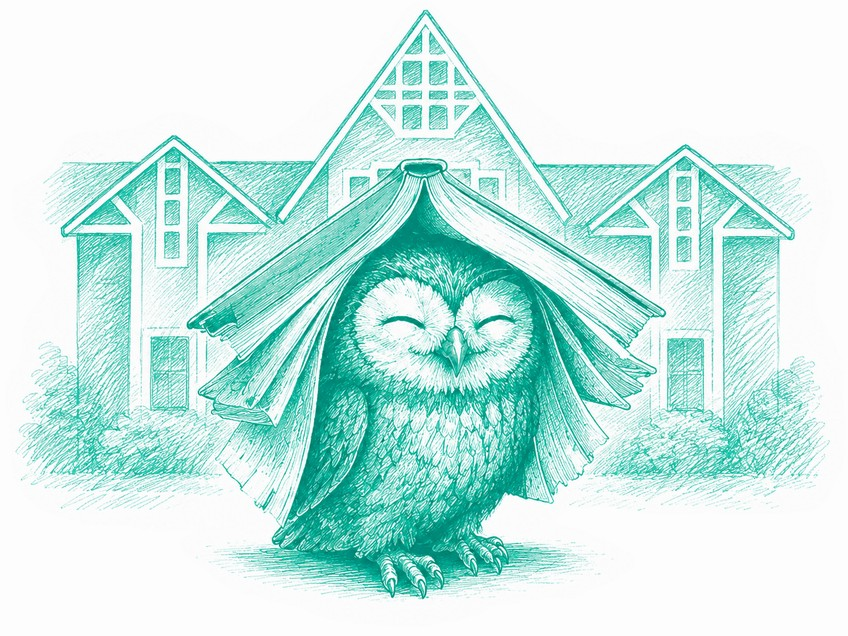
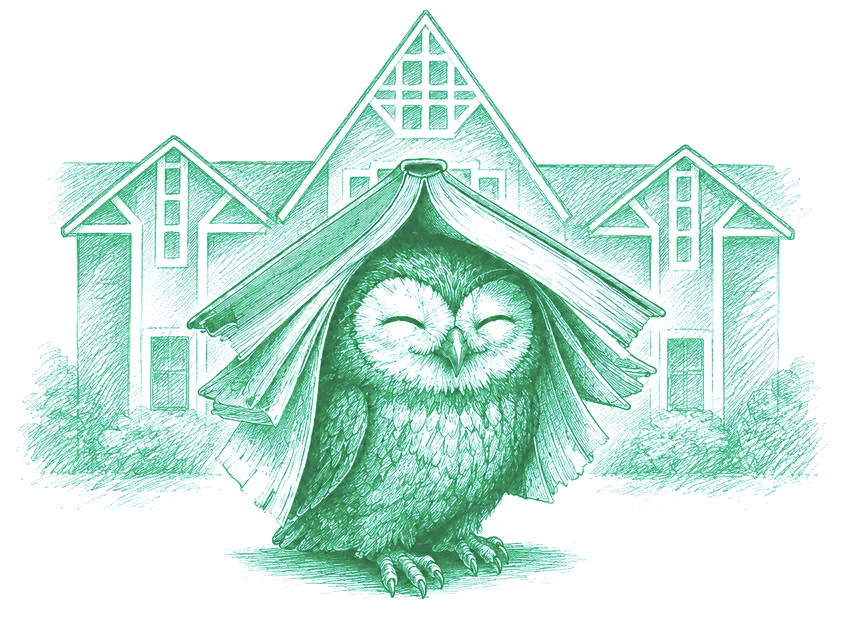
update

diff --git a/js/site.js b/js/site.js
@@ -254,6 +254,65 @@ photoTracks.forEach(track => {
 
 });
 
+document.querySelectorAll('.graduates-carousel').forEach(carousel => {
+  const track = carousel.querySelector('.graduates-carousel__track');
+  const prev = carousel.closest('.graduates')?.querySelector('.graduates-carousel__arrow--prev');
+  const next = carousel.closest('.graduates')?.querySelector('.graduates-carousel__arrow--next');
+  if (!track || !prev || !next) return;
+
+  let dragging = false;
+  let startX = 0;
+  let startScroll = 0;
+  let moved = false;
+
+  const slideStep = () => {
+    const slide = track.querySelector('.graduates-post');
+    if (!slide) return track.clientWidth * 0.85;
+    const gap = Number.parseFloat(getComputedStyle(track).columnGap || getComputedStyle(track).gap) || 0;
+    return slide.getBoundingClientRect().width + gap;
+  };
+
+  const moveGraduatesCarousel = direction => {
+    track.scrollBy({ left: direction * slideStep(), behavior: 'smooth' });
+  };
+
+  prev.addEventListener('click', () => moveGraduatesCarousel(-1));
+  next.addEventListener('click', () => moveGraduatesCarousel(1));
+
+  track.addEventListener('pointerdown', event => {
+    if (event.pointerType === 'touch') return;
+    dragging = true;
+    moved = false;
+    startX = event.clientX;
+    startScroll = track.scrollLeft;
+    track.classList.add('is-dragging');
+    track.setPointerCapture(event.pointerId);
+  });
+
+  track.addEventListener('pointermove', event => {
+    if (!dragging) return;
+    const distance = event.clientX - startX;
+    if (Math.abs(distance) > 6) moved = true;
+    track.scrollLeft = startScroll - distance;
+  });
+
+  const stopGraduatesDrag = event => {
+    if (!dragging) return;
+    dragging = false;
+    track.classList.remove('is-dragging');
+    if (track.hasPointerCapture(event.pointerId)) track.releasePointerCapture(event.pointerId);
+    setTimeout(() => { moved = false; }, 0);
+  };
+
+  track.addEventListener('pointerup', stopGraduatesDrag);
+  track.addEventListener('pointercancel', stopGraduatesDrag);
+  track.addEventListener('click', event => {
+    if (!moved) return;
+    event.preventDefault();
+    event.stopImmediatePropagation();
+  }, true);
+});
+
 const lightboxTriggers = document.querySelectorAll('[data-lightbox-src]');
 if (lightboxTriggers.length) {
   const lightbox = document.createElement('div');
@@ -355,9 +414,9 @@ faqItems.forEach(item => {
 document.documentElement.classList.add('motion-ready');
 
 const revealGroups = [
-  ['.section-head, .school-choice__head, .main-idea__inner, .story-split__copy, .faq__intro, .route__content', 'reveal-up'],
+  ['.section-head, .school-choice__head, .main-idea__inner, .story-split__copy, .faq__intro, .route__content, .graduates__head', 'reveal-up'],
   ['.choice-card, .photo-tile, .story-split__media, .owl-spot, .video-showcase__stage, .route__map', 'reveal-scale'],
-  ['.performance-item, .video-preview, .learn-card, .tuition-card, .faq__item', 'reveal-up'],
+  ['.performance-item, .video-preview, .learn-card, .tuition-card, .faq__item, .graduates-post', 'reveal-up'],
   ['.tuition__note, .footer__hero, .footer__social-inner', 'reveal-fade']
 ];
 

diff --git a/index.html b/index.html
@@ -25,6 +25,7 @@
   <script src="js/seo.js" defer></script>
   <script src="js/i18n.js" defer></script>
   <script src="js/site.js?v=20260710-1" defer></script>
+  <script async src="https://www.instagram.com/embed.js"></script>
 </head>
 <body>
   <span class="page-top-anchor" id="top" aria-hidden="true"></span>
@@ -302,6 +303,46 @@
           <a class="learn-card" href="evrika.html"><img src="images/garder.JPG" alt="" loading="lazy" decoding="async"><span></span><h3>НАШ ДИТЯЧИЙ САДОК</h3><p>Дбайливий початок освітнього шляху.</p></a>
           <a class="learn-card" href="teachers.html"><img src="images/teach.jpg" alt="" loading="lazy" decoding="async"><span></span><h3>НАШІ ВЧИТЕЛІ</h3><p>Педагоги, які допомагають дитині робити відкриття.</p></a>
           <a class="learn-card" href="#contacts"><img src="images/proj.JPG" alt="" loading="lazy" decoding="async"><span></span><h3>НАШІ ПРОЄКТИ</h3><p>Творчі, навчальні та дослідницькі формати.</p></a>
+        </div>
+      </div>
+    </section>
+
+    <section class="section graduates" id="graduates">
+      <div class="container">
+        <div class="section-head graduates__head">
+          <div>
+            <div class="eyebrow eyebrow--light">Відгуки випускників</div>
+            <h2>Випускники про нас</h2>
+          </div>
+          <div class="graduates__controls" aria-label="Керування каруселлю">
+            <button class="graduates-carousel__arrow graduates-carousel__arrow--prev" type="button" aria-label="Попередня публікація">←</button>
+            <button class="graduates-carousel__arrow graduates-carousel__arrow--next" type="button" aria-label="Наступна публікація">→</button>
+          </div>
+        </div>
+        <div class="graduates-carousel" aria-label="Публікації випускників з Instagram">
+          <div class="graduates-carousel__track">
+            <article class="graduates-post">
+              <blockquote class="instagram-media" data-instgrm-permalink="https://www.instagram.com/p/DYo2DHdNcOQ/" data-instgrm-version="14"><a href="https://www.instagram.com/p/DYo2DHdNcOQ/" target="_blank" rel="noopener noreferrer">Публікація випускника в Instagram</a></blockquote>
+            </article>
+            <article class="graduates-post">
+              <blockquote class="instagram-media" data-instgrm-permalink="https://www.instagram.com/p/DY0EYEMDSQz/" data-instgrm-version="14"><a href="https://www.instagram.com/p/DY0EYEMDSQz/" target="_blank" rel="noopener noreferrer">Публікація випускника в Instagram</a></blockquote>
+            </article>
+            <article class="graduates-post">
+              <blockquote class="instagram-media" data-instgrm-permalink="https://www.instagram.com/p/DYo1fYtNiG5/" data-instgrm-version="14"><a href="https://www.instagram.com/p/DYo1fYtNiG5/" target="_blank" rel="noopener noreferrer">Публікація випускника в Instagram</a></blockquote>
+            </article>
+            <article class="graduates-post">
+              <blockquote class="instagram-media" data-instgrm-permalink="https://www.instagram.com/p/DZXBIkIjXXC/" data-instgrm-version="14"><a href="https://www.instagram.com/p/DZXBIkIjXXC/" target="_blank" rel="noopener noreferrer">Публікація випускника в Instagram</a></blockquote>
+            </article>
+            <article class="graduates-post">
+              <blockquote class="instagram-media" data-instgrm-permalink="https://www.instagram.com/p/DY67we9DZ8z/" data-instgrm-version="14"><a href="https://www.instagram.com/p/DY67we9DZ8z/" target="_blank" rel="noopener noreferrer">Публікація випускника в Instagram</a></blockquote>
+            </article>
+            <article class="graduates-post">
+              <blockquote class="instagram-media" data-instgrm-permalink="https://www.instagram.com/p/DY65pc5jVjT/" data-instgrm-version="14"><a href="https://www.instagram.com/p/DY65pc5jVjT/" target="_blank" rel="noopener noreferrer">Публікація випускника в Instagram</a></blockquote>
+            </article>
+            <article class="graduates-post">
+              <blockquote class="instagram-media" data-instgrm-permalink="https://www.instagram.com/p/DZJ8uXdtket/" data-instgrm-version="14"><a href="https://www.instagram.com/p/DZJ8uXdtket/" target="_blank" rel="noopener noreferrer">Публікація випускника в Instagram</a></blockquote>
+            </article>
+          </div>
         </div>
       </div>
     </section>

diff --git a/css/site.css b/css/site.css
@@ -707,7 +707,7 @@ input:focus,textarea:focus{
 
 .anchor-offset{display:block;position:relative;top:-110px;visibility:hidden}
 .school-choice{position:relative;background:#fcfdfc}
-.school-choice__head{min-height:clamp(0px,30vw,424px);align-items: flex-end;margin:-60px 0 55px;padding:40px 44px;border-radius:0 0 30px 30px;background-image:url("../images/domik.png");background-repeat:no-repeat;background-position:center;background-size:cover}
+.school-choice__head{min-height:clamp(0px,30vw,424px);align-items: flex-end;margin:-60px 0 55px;padding:40px 44px;border-radius:0 0 30px 30px;background-image:url("../images/domik.jpg");background-repeat:no-repeat;background-position:center;background-size:cover}
 .school-choice__head .eyebrow{color:#071f1b}
 .choice-grid{display:grid;grid-template-columns:repeat(2,minmax(0,1fr));gap:18px;text-transform:uppercase}
 .choice-card{min-height:250px;display:grid;grid-template-columns:1fr 1fr;overflow:hidden;border:1px solid rgba(255,255,255,.92);border-radius:24px;background:linear-gradient(145deg,rgba(245,250,248,.82),rgba(255,255,255,.58));box-shadow:0 20px 55px rgba(13,75,67,.09),inset 0 1px 0 #fff}
@@ -827,6 +827,21 @@ input:focus,textarea:focus{
 .learn-card:nth-child(2){background:linear-gradient(145deg,rgba(255,244,221,.84),rgba(255,255,255,.44))}
 .learn-card:nth-child(3){background:linear-gradient(145deg,rgba(223,241,245,.86),rgba(255,255,255,.44))}
 .learn-card:hover{transform:translateY(-6px);box-shadow:0 24px 60px rgba(10,64,56,.13),inset 0 1px 0 #fff}
+.graduates{position:relative;overflow:hidden;color:#fff;background:radial-gradient(circle at 10% 12%,rgba(117,255,231,.22),transparent 28%),radial-gradient(circle at 92% 88%,rgba(178,255,241,.18),transparent 26%),#138c7d}
+.graduates__head{align-items:flex-end}
+.graduates__head h2{color:#fff}
+.graduates__controls{display:flex;gap:12px;flex:0 0 auto}
+.graduates-carousel{position:relative}
+.graduates-carousel__track{display:flex;gap:12px;overflow-x:auto;overscroll-behavior-inline:contain;scroll-snap-type:x mandatory;scrollbar-width:none;padding:0px 8px 6px 30px;cursor:grab;user-select:none;-webkit-user-select:none}
+.graduates-carousel__track::-webkit-scrollbar{display:none}
+.graduates-carousel__track.is-dragging{cursor:grabbing;scroll-snap-type:none}
+.graduates-carousel__track.is-dragging *{pointer-events:none}
+.graduates-post{flex:0 0 clamp(330px,34vw,470px);min-height:620px;display:flex;align-items:flex-start;justify-content:center;scroll-snap-align:start;padding:10px;border:1px solid rgba(255,255,255,.28);border-radius:24px;background:linear-gradient(145deg,rgba(255,255,255,.22),rgba(255,255,255,.1));-webkit-backdrop-filter:blur(14px);backdrop-filter:blur(14px)}
+.graduates-post .instagram-media{width:100%!important;min-width:0!important;max-width:100%!important;margin:0!important;background:#fff!important;border-radius:18px!important}
+.graduates-post iframe{max-width:100%!important;margin:0!important}
+.graduates-carousel__arrow{width:54px;height:54px;display:grid;place-items:center;border:1px solid rgba(255,255,255,.42);border-radius:50%;background:rgba(255,255,255,.18);color:#fff;box-shadow:0 14px 34px rgba(0,35,31,.18),inset 0 1px 0 rgba(255,255,255,.22);-webkit-backdrop-filter:blur(12px);backdrop-filter:blur(12px);cursor:pointer;font-size:22px;transition:transform .2s,background .2s}
+.graduates-carousel__arrow:hover{background:rgba(255,255,255,.28);transform:translateY(-2px)}
+.graduates-carousel__arrow:focus-visible{outline:3px solid rgba(255,255,255,.65);outline-offset:3px}
 .choice-card,.story-split__media,.route__map,.contact-form,.faq__item,.video-showcase__stage{
   transition:
     transform .35s cubic-bezier(.2,.75,.2,1),
@@ -885,6 +900,8 @@ input:focus,textarea:focus{
   .photo-tile--wide{flex-basis:86vw}
   .photo-carousel__arrow--prev{left:4px}
   .photo-carousel__arrow--next{right:4px}
+  .graduates__head{align-items:flex-start}
+  .graduates-post{flex-basis:min(420px,78vw)}
 }
 @media(max-width:600px){
   .choice-card{grid-template-columns:1fr;min-height:0}
@@ -906,6 +923,11 @@ input:focus,textarea:focus{
   .video-showcase__playlist{height:380px}
   .video-showcase__previews{grid-template-columns:1fr}
   .video-showcase__previews iframe{min-height:230px}
+  .graduates__head{gap:24px;margin-bottom:30px}
+  .graduates__controls{width:100%;justify-content:flex-end}
+  .graduates-carousel__track{gap:14px;margin-left:0;margin-right:0;padding-left:6px;padding-right:18px}
+  .graduates-post{flex-basis:84vw;min-height:560px;padding:12px;border-radius:20px}
+  .graduates-carousel__arrow{width:46px;height:46px;font-size:19px}
 }
 
 .footer{

diff --git a/teachers.html b/teachers.html
@@ -106,7 +106,7 @@
 
     <section class="teachers-owls" aria-label="Совы">
       <div class="container">
-        <img src="images/teachers/twoowls.JPG" alt="" loading="lazy" decoding="async">
+        <img src="images/teachers/twoowls.jpg" alt="" loading="lazy" decoding="async">
       </div>
     </section>
 